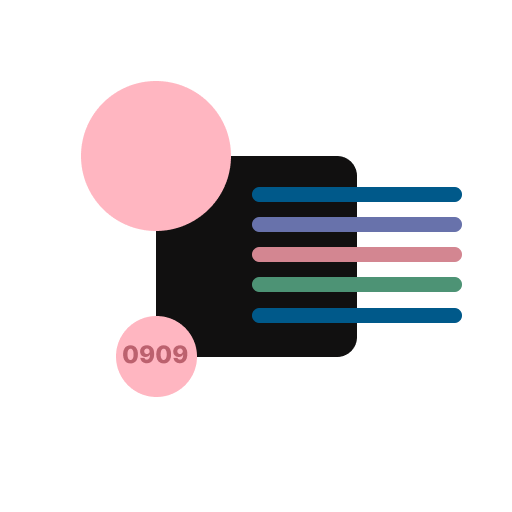
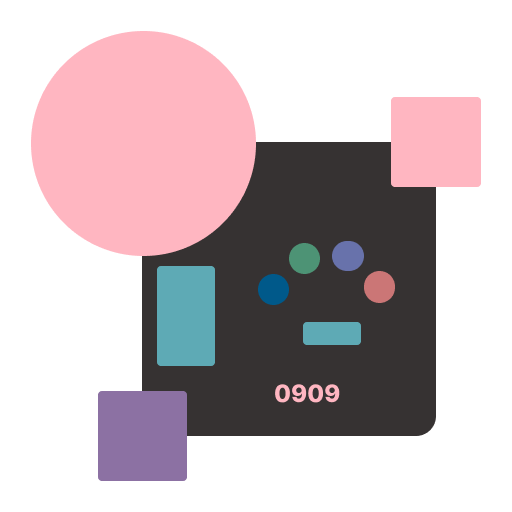
commit

diff --git a/README.md b/README.md
@@ -2,17 +2,20 @@
  * @Author: cassie-ye cassie20190909@gmail.com
  * @Date: 2025-03-08 20:47:57
  * @LastEditors: cassie-ye cassie20190909@gmail.com
- * @LastEditTime: 2025-03-09 15:59:33
+ * @LastEditTime: 2025-03-09 16:30:01
  * @FilePath: \Cassieye-Theme\README.md
  * @Description: 这是默认设置,请设置`customMade`, 打开koroFileHeader查看配置 进行设置: https://github.com/OBKoro1/koro1FileHeader/wiki/%E9%85%8D%E7%BD%AE
 -->
 <h1 align="center">Cassieye Theme</h1>
 
 <div align="center">
-<img alt="logo" src="icon2.png">
+<img alt="logo" src="icon.png">
 </div>
 
-<h3 align="center">A colorful VSCode theme</h3>
+<h3 align="center">
+This VSCode plugin features a theme with soft and layered colors, carefully curated to offer a warm and modern palette. It aims to provide developers with a comfortable and inspiring coding environment, turning programming into a dual delight for both the eyes and the soul.<br>
+这款VSCode插件以柔和且富有层次感的色彩为主题，精心挑选了温暖而现代的颜色组合，旨在为开发者提供一个既舒适又充满灵感的编码环境，让编程成为一种视觉与心灵的双重享受。
+</h3>
 
 ## preview
 
